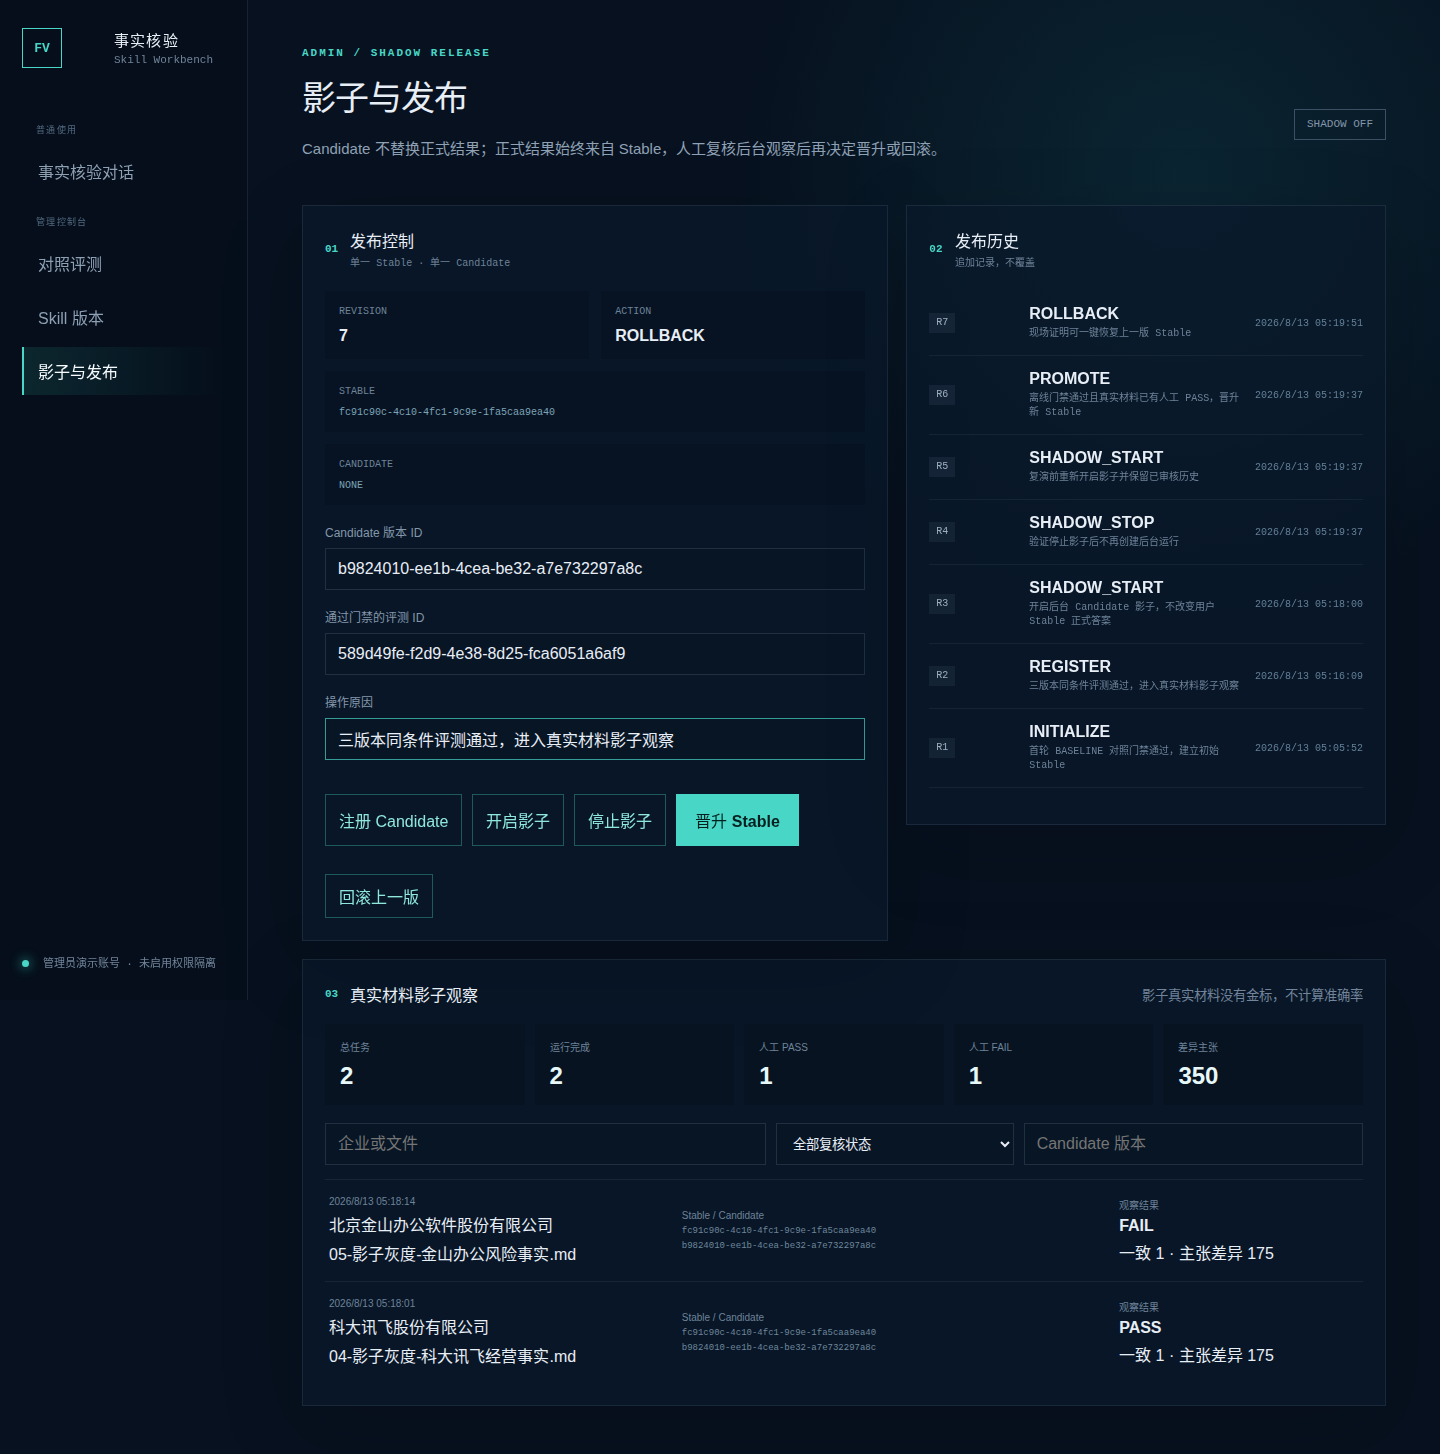
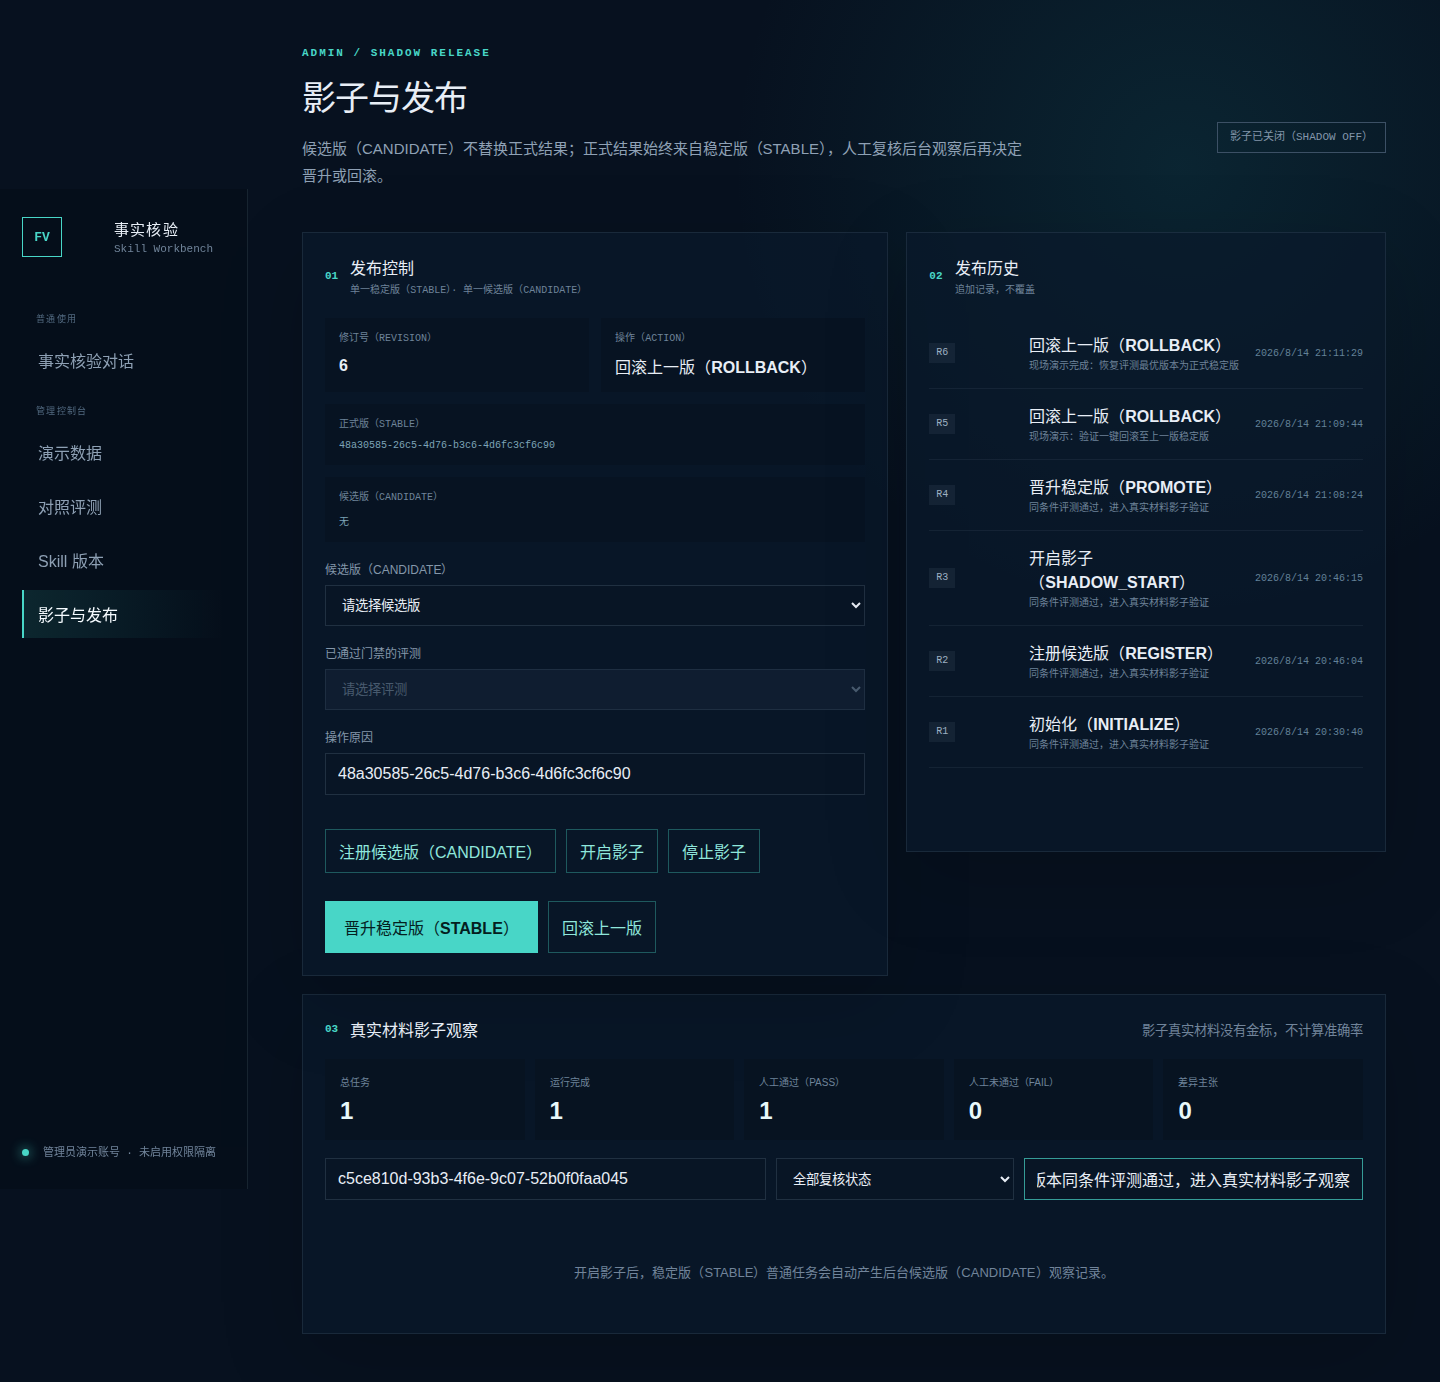
test: 固化从零复演的最终最优版本状态

diff --git a/README.md b/README.md
@@ -94,7 +94,7 @@ bash evals/competition-replay/start-test-preview.sh intranet
 快照不得提交 Git、上传无关渠道或长期留在项目目录；恢复验收应使用权限 `0600` 的系统临时文件，
 核验完成立即删除。
 
-现场只选择以下一条路径，不把两条路径的结果混作同一次运行证据：
+现场只选择以下一条路径，不把不同路径的结果混作同一次运行证据：
 
 ### 路径一：从零真实运行
 
@@ -110,6 +110,18 @@ bash evals/competition-replay/start-test-preview.sh intranet
 1. 确认七张业务表和三个受管目录均为空；在“演示数据管理”点击“导入固定脱敏内置状态”。
 2. 使用“管理评测”“Skill 版本实验室”“影子与发布”的页面下拉框查看四个版本、三个评测、影子人工通过/未通过和追加式发布历史。
 3. 内置状态是固定脱敏 fixture，导入过程不调用模型，页面结果不是本次现场重新生成；只能用于快速讲解完整链路，不能冒充现场真实运行结果。
+
+### 路径三：恢复本机从零实跑快照
+
+从零实跑并完成三版本评测、影子、晋升与回滚后，已经通过页面“导出演示快照（ZIP）”保存本机恢复点：
+
+```text
+/mnt/f/IdeaProjects/hsmap/.playwright-mcp/workbench-state-snapshot.zip
+Windows 文件选择器：F:\IdeaProjects\hsmap\.playwright-mcp\workbench-state-snapshot.zip
+SHA-256: 74b091c7e660d44923f962add9f84384c48053137aec0c6e80797c7a824bcd01
+```
+
+需要恢复时，先为当前状态另行导出备份，再在“演示数据管理”清空状态，选择上述 ZIP 并点击“导入自定义快照”。恢复后的七表计数依次为：主张 27、核验运行 12、核验任务 11、证据快照 92、发布绑定 6、Skill 版本 2、评测运行 4。该快照包含真实运行证据和上传材料，只允许本机演示恢复，不进入 Git、公开提交包或无关渠道。
 
 ## 快速评测与正式评测
 

diff --git a/evals/competition-replay/README.md b/evals/competition-replay/README.md
@@ -44,7 +44,7 @@ bash evals/competition-replay/run-quick-browser-tests.sh
 bash evals/competition-replay/run-full-competition-browser-tests.sh
 ```
 
-当前运行环境没有暴露 Playwright MCP 工具，因此仓库脚本使用同版本 Playwright Browser API 驱动真实 Chromium；选择器、网络响应、截图和失败行为与 MCP 浏览器执行一致，所有脚本都保存在本目录供复跑。
+本轮从零演示已经使用 Playwright MCP 逐页执行真实点击、上传、确认、取消、刷新和下载，并把页面快照保存在工作区 `.playwright-mcp/`。仓库同时保留同版本 Playwright Browser API 脚本，用于无人值守重复回归；两者使用相同页面选择器、网络响应和失败条件。
 
 ## 最短演示顺序
 
@@ -86,7 +86,7 @@ bash evals/competition-replay/run-full-competition-browser-tests.sh
 - 核心指标是准确率、任务完成率、稳定性、人工介入率；版本之间的结果要看总体指标，也要下钻失败样本。
 - 快速 3 条与正式 30 条使用同一执行和评分代码；快速集只缩短现场等待，不具有发布资格，正式集才是比赛门禁证据。
 
-`v3` 的支持性金标只引用当前六个 MCP 工具可返回的 dev 同源 ES `recordId`；`v2` 虽已纠正股票代码，仍引用了运行时工具不可见的年报记录，已归档而不用于正式分数。
+正式 `v4` 金标只引用当前六个 MCP 工具可返回的 dev 同源 ES `recordId`；`v3` 及更早版本保留为证据漂移和缺陷修复历史，不再允许新建评测或用于发布分数。
 
 ## 文件说明
 
